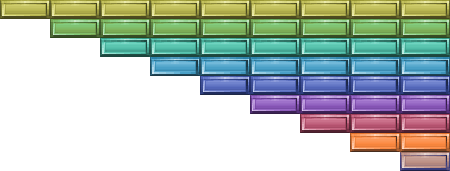
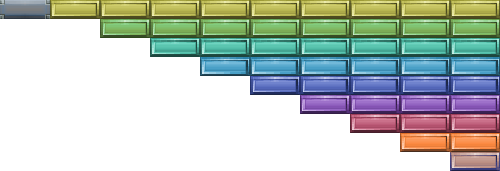
Add Unbreakable Brick

diff --git a/app/src/Game/Game.js b/app/src/Game/Game.js
@@ -1,10 +1,10 @@
 // Import de la feuille de style
 import '../assets/css/style.css';
-//Import de données de configuration
+//Import de données de configuration et levels
 import customConfig from '../config.json'
 import levelsConfig from '../levels.json'
 // Import des assets de sprite
-import ballImgSrc from '../assets/img/ball.png';
+import ballImgSrc from '../assets/img/Ball.png';
 import paddleImgSrc from '../assets/img/padSprite.png';
 import brickImgSrc from '../assets/img/brick.png';
 import edgeImgSrc from '../assets/img/edge.png';
@@ -102,6 +102,8 @@ class Game {
         elCanvas.width = this.config.canvasSize.width;
         elCanvas.height = this.config.canvasSize.height;
 
+        //TODO:Span du score 
+
         document.body.append(elH1, elCanvas);
 
         // Récupération du contexte de dessin
@@ -174,8 +176,6 @@ class Game {
         this.loadBricks(this.levels.data[0]);
     }
 
-
-
     //Création des briques 
     loadBricks(levelArray) {
         //Boucle de generation Lignes & Colonnes 
@@ -184,6 +184,7 @@ class Game {
                 let brickType = levelArray[line][column];
                 //SI valeur trouvé = 0 -> espace vide on bouge a la suivante 
                 if (brickType == 0) continue;
+
 
                 //Si on a bien une brique, on la crée et on la met dans le state 
                 const brick = new Brick(this.images.brick, 50, 19, brickType);
@@ -256,6 +257,7 @@ class Game {
 
             // Collision de la balle avec le bord de la mort
             if (theBall.getCollisionType(this.state.deathEdge) !== CollisionType.NONE) {
+                //TODO: Regarder le nombre de vie 
                 return;
             }
 
@@ -304,10 +306,15 @@ class Game {
                 }
 
                 //Ici on a forcement une collision car la premiere clause du switch fait un return
-                //Decrement du compteur de strenght de la brique
-                theBrick.strength --; 
-                
-            });
+                //Decrement du compteur de strenght
+                //Inutile dans notre cas, mais on déceremente uniquement les briques cassables 
+                if (theBrick.strength !== -1) {
+                    theBrick.strength--;
+
+                }
+                    //TODO: Mettre a Jour le Score !
+
+                });
 
 
             // Collision avec le paddle
@@ -353,7 +360,7 @@ class Game {
 
         //Briques
         //On conserve dans le state que les briques dont strength != 0 
-        this.state.bricks = this.state.bricks.filter( theBrick => theBrick.strength !== 0 );
+        this.state.bricks = this.state.bricks.filter(theBrick => theBrick.strength !== 0);
 
         //Paddle 
         this.state.paddle.updateKeyframe();
@@ -391,8 +398,8 @@ class Game {
 
     // Boucle d'animation
     loop(stamp) {
-       //Enregistrement du stamp actuel
-       this.currentLoopStamp = stamp;
+        //Enregistrement du stamp actuel
+        this.currentLoopStamp = stamp;
 
         // Cycle 1
         this.checkUserInput();
@@ -416,7 +423,6 @@ class Game {
         // Appel de la frame suivante
         requestAnimationFrame(this.loop.bind(this));
     }
-
 
 
     // Fonction de test inutile dans le jeu

diff --git a/app/src/Game/Brick.js b/app/src/Game/Brick.js
@@ -2,20 +2,26 @@ import GameObject from "./GameObject";
 import theGame from "./Game";
 
 
-export default class Brick extends GameObject
-{
+export default class Brick extends GameObject {
     type;
     strength;
-    
-    constructor(image, width, height, strength = 1){
-        super ( image, width, height);
+
+    constructor(image, width, height, strength = 1) {
+        super(image, width, height);
         this.strength = strength;
         this.type = strength;
     }
 
     draw() {
-        const sourceX = (this.size.width * this.type) - this.size.width;
-        const sourceY = (this.size.height * this.strength) - this.size.height;
+        //On décalle de 1 pour le sprite car aux coordonnées (0;0) il y a la brique incassable 
+        let sourceX = (this.size.width * this.type + this.size.width) - this.size.width;
+        let sourceY = (this.size.height * this.strength) - this.size.height;
+
+        //Si la brique est incassable, on met en DUR ses coordonées du sprite (0;0)
+        if(this.strength === -1){
+            sourceX = 0;
+            sourceY = 0;
+        }
 
         theGame.ctx.drawImage(
             this.image,
